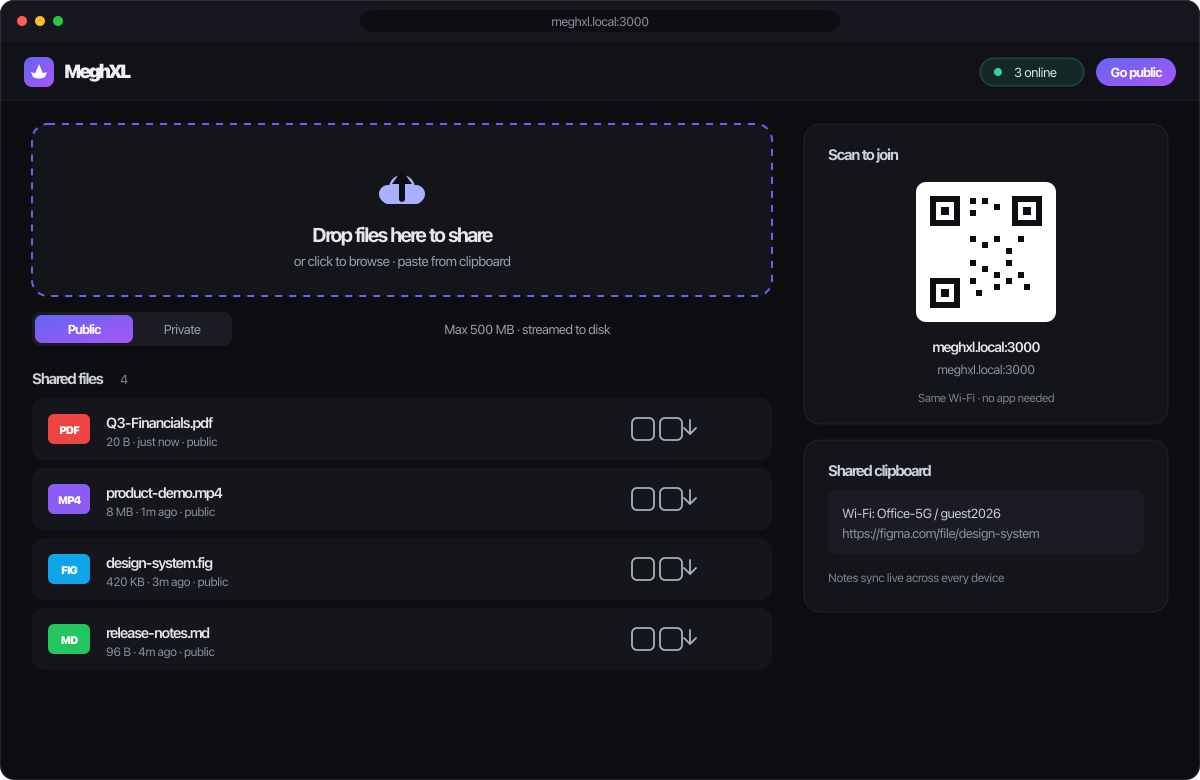
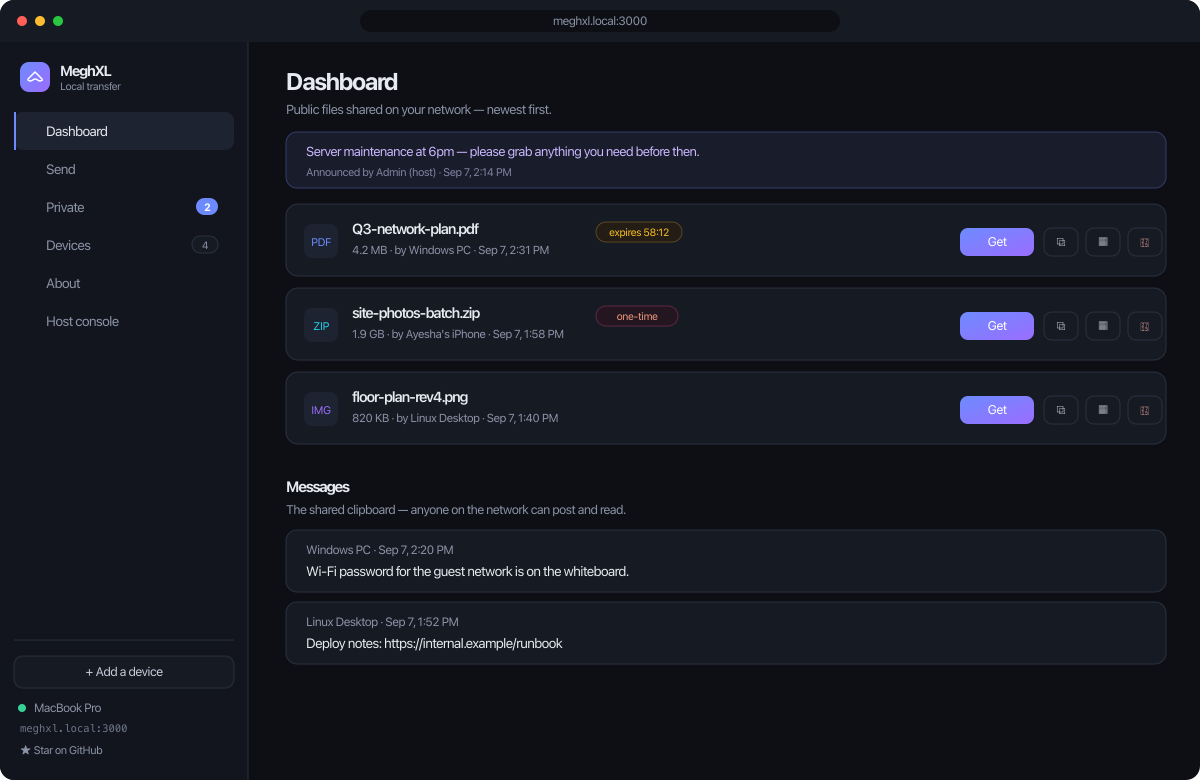
Fix stale claims and polish before going public
package.json still advertised 'optional one-click internet sharing' — the
tunnel that was removed for security. npm and GitHub both surface that
string, so it was a false claim about a feature that does not exist.
Rewritten, and the missing author, repository, bugs and homepage fields
added.

The dashboard preview in the README was worse: it showed a 'Go public'
button, contradicting the LAN-only promise made three sections below it,
and it still depicted the pre-redesign single-column layout. Redrawn to
match the shipping UI — sidebar navigation, sender names, one-time and
expiry badges, and the message board. The console preview was already
accurate and is unchanged.

Also: drops '(tunnel off)' from a test name, matches the PWA manifest's
background and theme colours to the stylesheet so the install splash no
longer flashes pre-rebrand colours, and adds public/robots.txt so a
dashboard reached through a reverse proxy is never indexed.

diff --git a/test/meghxl.test.js b/test/meghxl.test.js
@@ -153,7 +153,7 @@ test('host can post an announcement that appears in state', async () => {
   assert.ok(state.body.announcements.some((a) => a.text === 'hello team'));
 });
 
-test('only the host PC is admin: a forwarded/other-device request is denied (tunnel off)', async () => {
+test('only the host PC is admin: a forwarded/other-device request is denied', async () => {
   // A request carrying a forwarding header is not the host machine, so even on a
   // quiet LAN it must NOT get the console — other devices see the normal app.
   const r = await request(app).get('/api/admin/state').set('X-Forwarded-For', '203.0.113.99');

diff --git a/public/index.html b/public/index.html
@@ -5,7 +5,7 @@
   <meta name="viewport" content="width=device-width, initial-scale=1, viewport-fit=cover" />
   <meta name="color-scheme" content="dark" />
   <title>MeghXL — transfer anything on your network</title>
-  <meta name="theme-color" content="#6366f1" />
+  <meta name="theme-color" content="#6d8bff" />
   <link rel="icon" href="/favicon.svg" type="image/svg+xml" />
   <link rel="icon" href="/favicon-32.png" sizes="32x32" type="image/png" />
   <link rel="icon" href="/favicon-16.png" sizes="16x16" type="image/png" />

diff --git a/public/admin.html b/public/admin.html
@@ -5,7 +5,7 @@
   <meta name="viewport" content="width=device-width, initial-scale=1" />
   <meta name="color-scheme" content="dark" />
   <title>MeghXL · Host Console</title>
-  <meta name="theme-color" content="#6366f1" />
+  <meta name="theme-color" content="#6d8bff" />
   <link rel="icon" href="/favicon.svg" type="image/svg+xml" />
   <link rel="icon" href="/favicon-32.png" sizes="32x32" type="image/png" />
   <link rel="apple-touch-icon" href="/apple-touch-icon.png" />
